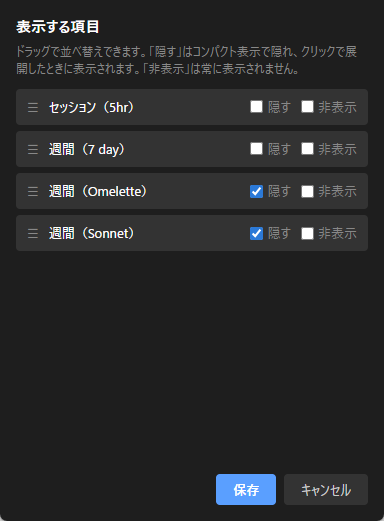
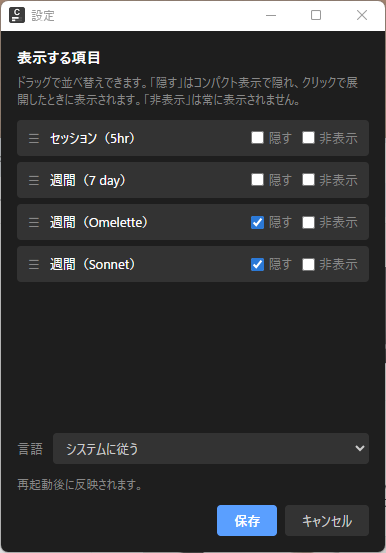
README: add Download and Overview sections; refresh settings screenshot
- Add a "ダウンロード / Download" section right after the tagline, pointing
  at the Releases page and noting the single standalone EXE.
- Add an "概要 / Overview" heading before the language navigation.
- Replace the settings screenshot with the current one that includes the
  language selector.

diff --git a/README.md b/README.md
@@ -3,6 +3,14 @@
 > Claudeの使用量を常時画面に表示する、常駐型のデスクトップウィジェット（Windows）。
 > A resident, always-on-top desktop widget that keeps your Claude usage on screen (Windows).
 
+## ダウンロード / Download
+
+最新の `ClaudeUsageMonitor.exe` は [Releases](https://github.com/omi-last-stand/claude-usage-monitor/releases) から入手できます。インストール不要で、単体のexeだけで動作します（設定・状態ファイルは任意）。自分でビルドする場合は下記「ソースからビルド」を参照してください。
+
+Get the latest `ClaudeUsageMonitor.exe` from the [Releases](https://github.com/omi-last-stand/claude-usage-monitor/releases) page. No installation - it runs as a single standalone EXE (settings/state files are optional). To build it yourself, see "Building from source" below.
+
+## 概要 / Overview
+
 **[日本語](#日本語) ・ [English](#english)**
 
 本アプリは Jens Duttke 氏の [Usage Monitor for Claude](https://github.com/jens-duttke/usage-monitor-for-claude) のフォークです。素晴らしい原作に深く感謝します。